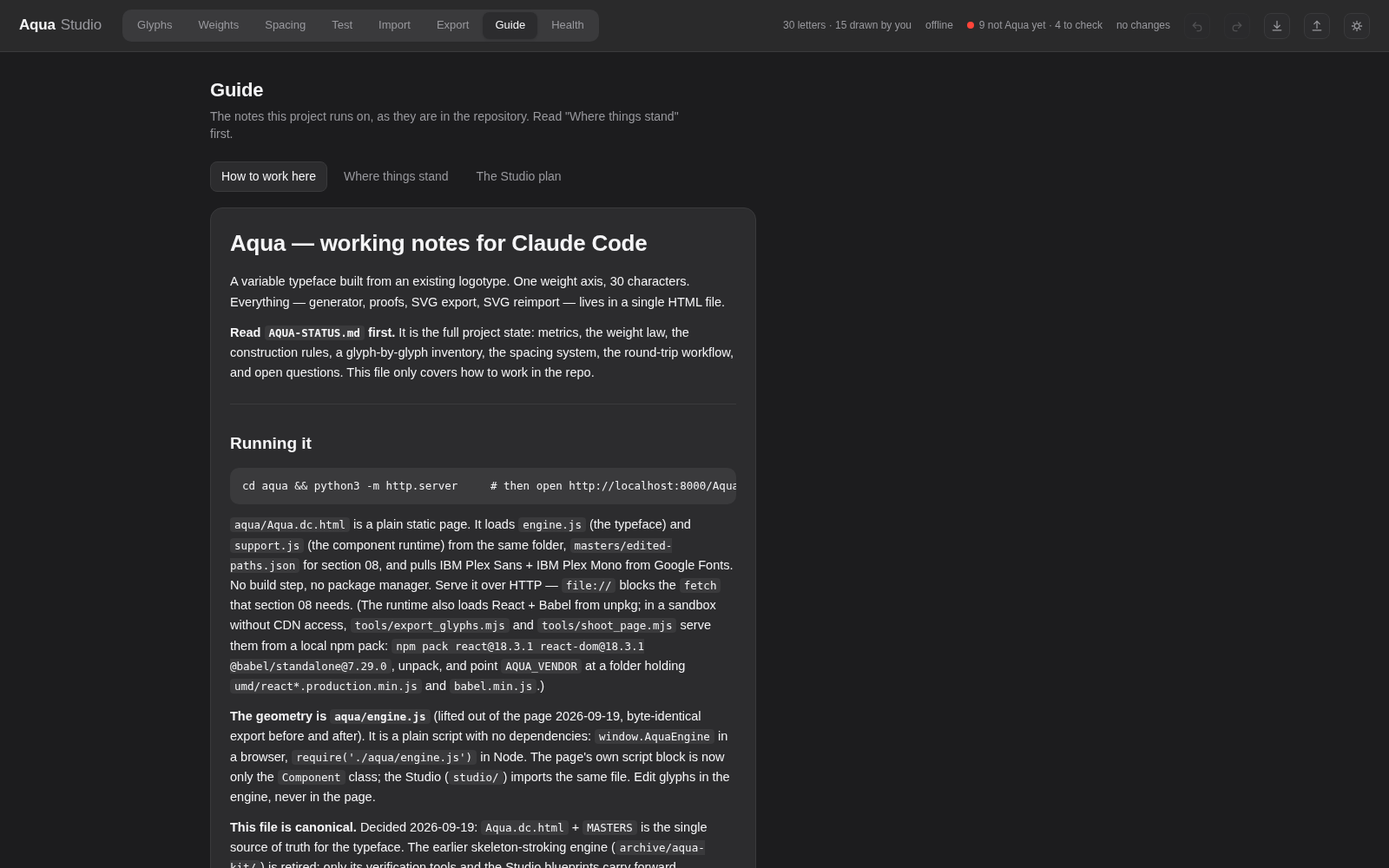
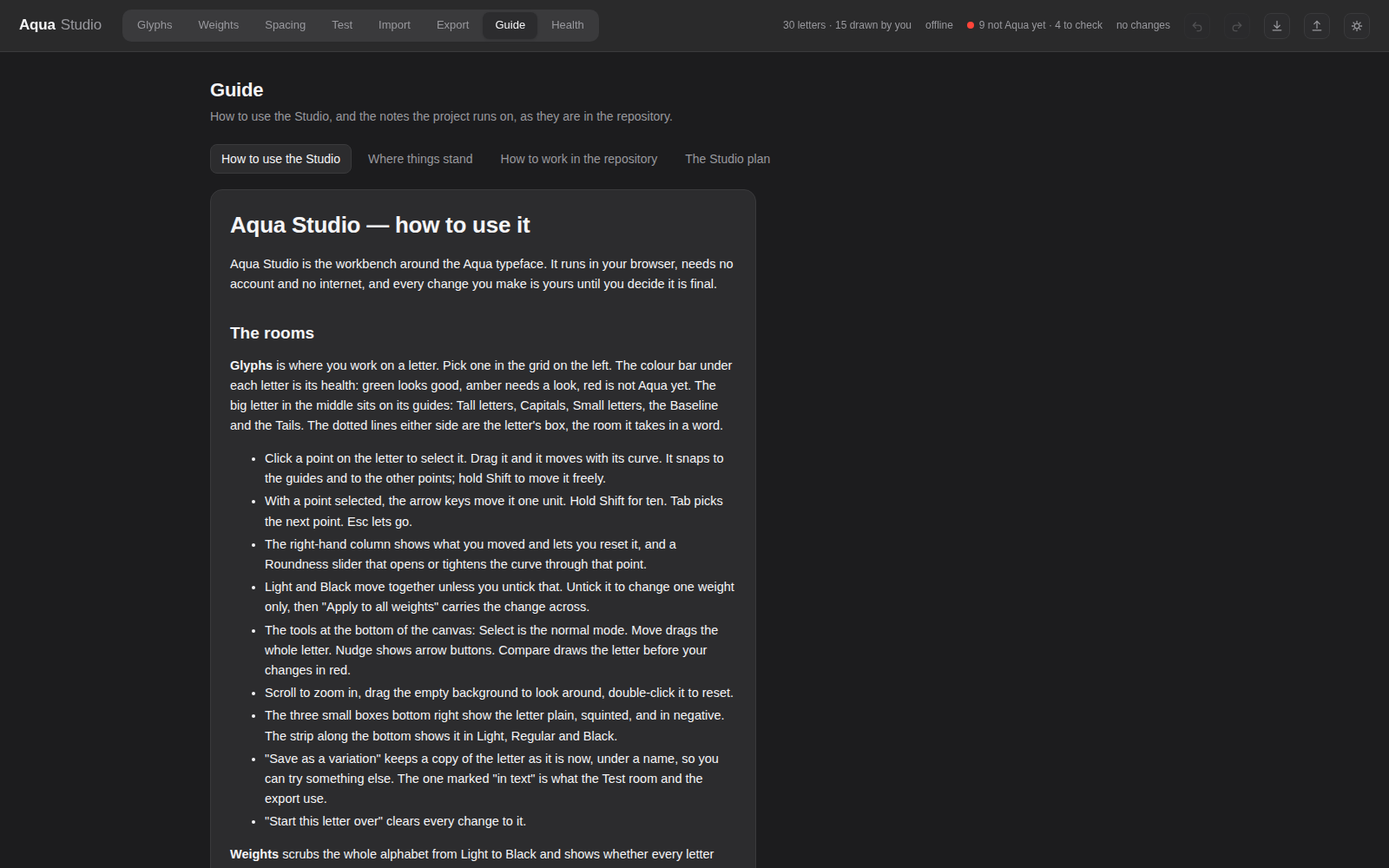
Milestone 4, part one: the six optical audits and the manual
studio/audit.js reads a letter's outline at a weight and says in plain words
what a trained eye would notice, one audit per law from the spec:

- Overshoot: the top and bottom extremes are classed flat (a straight run at
  least 0.4 stem long, line or straight cubic) or round; a round extreme
  sitting exactly on a guide is flagged, so is a flat one overshooting it.
- Weight illusion: stems measured by horizontal scans across the x-height,
  horizontals by vertical scans whose runs keep their height and level
  edges either side (so a curve or a diagonal passing through does not
  count); a horizontal as thick as the stems is flagged, with the value the
  contrast curve wants at that weight.
- Gravity: stacked holes compared by area; an upper hole not smaller than
  the lower is flagged.
- Irradiation: the smallest hole's size at 12 px; under 1.5 px it closes up
  in negative.
- Crowding at joins: ink coverage in a disc of 0.9 stem around every point;
  the dark ones are listed, and drawn as red haloes on the canvas.
- Rhythm: the ink gaps next to n and o against the 70–85 band.

The whole set audits in about a tenth of a second. The Health room gets a
"Six optical checks" table (letter × law, first thing to look at; click a
row to open the letter); the inspector shows the letter's own lines; the
canvas gains the Middle guide at 0.515 of the x-height (of the cap height
for B). studio/GUIDE.md is a plain-language manual for Fabio and is the
first tab of the Guide room.
[…]

Changed region(s): [[0.1562, 0.248, 0.5312, 1.0], [0.1562, 0.093, 0.5, 0.217], [0.5, 0.155, 0.5312, 0.186]]

diff --git a/studio/audit.js b/studio/audit.js
@@ -1,0 +1,162 @@
+// The six optical laws, as audits. Each looks at a letter's outline at a weight and says in
+// plain words what a trained eye would notice — overshoot, the weight illusion, gravity,
+// irradiation, crowding at the joins, rhythm. Findings are advisory: they never change a
+// drawing, they tell Fabio where to look.
+//
+// Loads as a classic <script> (window.AquaAudit) and as CommonJS (require). Needs the engine.
+(function (root, factory) {
+  const E = typeof module === 'object' && module.exports ? require('../aqua/engine.js') : root.AquaEngine;
+  const api = factory(E);
+  if (typeof module === 'object' && module.exports) module.exports = api;
+  root.AquaAudit = api;
+})(typeof globalThis !== 'undefined' ? globalThis : this, function (E) {
+'use strict';
+
+const LAWS = [
+  ['overshoot', 'Overshoot', 'Round and pointed shapes must go past the line to look level with flat ones.'],
+  ['weight', 'Weight illusion', 'A horizontal stroke as thick as a vertical one looks heavier; horizontals are drawn thinner.'],
+  ['gravity', 'Gravity', 'The upper part of a two-storey letter must be smaller than the lower, or it looks top-heavy.'],
+  ['irradiation', 'Irradiation', 'White on black spreads; holes close up at small sizes unless they are big enough.'],
+  ['crowding', 'Crowding at joins', 'Where strokes meet, ink piles up and looks darker; joins are thinned on purpose.'],
+  ['rhythm', 'Rhythm', 'The gaps between letters should feel even; the target band is 70–85 units.']
+];
+const XH = 521, ASC = 751, CAP = 715, OV = 7;
+
+// ── geometry helpers ──
+function polys(subs, n = 10) {
+  return subs.map(sub => {
+    const pts = [];
+    for (const [p0, c1, c2, p3, k] of sub) {
+      const m = k === 'L' ? 1 : n;
+      for (let i = 1; i <= m; i++) { const t = i / m, u = 1 - t;
+        pts.push([u*u*u*p0[0] + 3*u*u*t*c1[0] + 3*u*t*t*c2[0] + t*t*t*p3[0], u*u*u*p0[1] + 3*u*u*t*c1[1] + 3*u*t*t*c2[1] + t*t*t*p3[1]]); }
+    }
+    return pts;
+  });
+}
+function crossings(P, axis, v) {   // axis 0: vertical line x=v → y crossings; axis 1: horizontal line y=v → x crossings
+  const out = [];
+  for (const poly of P) for (let i = 0; i < poly.length; i++) {
+    const a = poly[i], b = poly[(i + 1) % poly.length];
+    const a1 = a[axis], b1 = b[axis];
+    if ((a1 > v) !== (b1 > v)) { const t = (v - a1) / (b1 - a1); out.push(a[1 - axis] + t * (b[1 - axis] - a[1 - axis])); }
+  }
+  return out.sort((x, y) => x - y);
+}
+function runs(P, axis, v) { const c = crossings(P, axis, v), r = []; for (let i = 0; i + 1 < c.length; i += 2) r.push([c[i], c[i + 1]]); return r; }
+function inside(P, x, y) { let c = 0; for (const poly of P) for (let i = 0; i < poly.length; i++) { const a = poly[i], b = poly[(i + 1) % poly.length]; if ((a[1] > y) !== (b[1] > y)) { const xi = a[0] + (y - a[1]) * (b[0] - a[0]) / (b[1] - a[1]); if (x < xi) c++; } } return c % 2 === 1; }
+function coverage(P, cx, cy, r) { let n = 0, k = 0; const step = r / 4; for (let x = -r; x <= r; x += step) for (let y = -r; y <= r; y += step) { if (x*x + y*y > r*r) continue; n++; if (inside(P, cx + x, cy + y)) k++; } return n ? k / n : 0; }
+function bboxOf(poly) { let x0 = Infinity, x1 = -Infinity, y0 = Infinity, y1 = -Infinity; for (const [x, y] of poly) { if (x < x0) x0 = x; if (x > x1) x1 = x; if (y < y0) y0 = y; if (y > y1) y1 = y; } return { x0, x1, y0, y1, w: x1 - x0, h: y1 - y0 }; }
+const median = a => { const b = [...a].sort((x, y) => x - y); return b.length ? b[Math.floor(b.length / 2)] : null; };
+const r0 = v => Math.round(v);
+
+// ── the audits ──
+function overshoot(ch, s, subs, b) {
+  const out = [];
+  const nodes = []; subs.forEach((sub, si) => sub.forEach((seg, j) => nodes.push({ p: seg[0], prev: sub[(j + sub.length - 1) % sub.length], next: seg })));
+  const extreme = (pick, guideList, word) => {
+    const y = pick === 'top' ? b.ymax : b.ymin;
+    const at = nodes.filter(n => Math.abs(n.p[1] - y) < 0.6);
+    if (!at.length) return;
+    // flat = a straight run along the extreme at least 0.4 stem long: a line, or a cubic whose
+    // handles lie on the chord. Short sampled pieces (a polyline round) are round.
+    const flatSeg = seg => { const [p0, c1, c2, p3, k] = seg; if (Math.abs(p0[1] - y) > 0.6 || Math.abs(p3[1] - y) > 0.6) return false;
+      if (Math.abs(p3[0] - p0[0]) < 0.4 * s) return false; return k === 'L' || (Math.abs(c1[1] - y) < 0.6 && Math.abs(c2[1] - y) < 0.6); };
+    const flat = at.some(n => flatSeg(n.next) || flatSeg(n.prev));
+    const guide = guideList.reduce((g, c) => Math.abs(c.y - y) < Math.abs(g.y - y) ? c : g);
+    const d = Math.abs(y - guide.y);
+    if (!flat && d < 1.5) out.push({ ok: false, text: `The round ${word} sits exactly on the ${guide.name} line; a round shape needs to go about ${OV} past it to look level.` });
+    else if (flat && d > 1.5 && d < 14) out.push({ ok: false, text: `The flat ${word} overshoots the ${guide.name} line by ${r0(d)}; flat shapes should sit on it.` });
+    else if (!flat && d >= 1.5 && d < 14) out.push({ ok: true, text: `The round ${word} overshoots the ${guide.name} line by ${r0(d)}.` });
+    else if (flat && d < 1.5) out.push({ ok: true, text: `The flat ${word} sits on the ${guide.name} line.` });
+  };
+  extreme('top', [{ name: 'Small letters', y: XH }, { name: 'Tall letters', y: ASC }, { name: 'Capitals', y: CAP }], 'top');
+  extreme('bottom', [{ name: 'Baseline', y: 0 }, { name: 'Tails', y: -230 }], 'bottom');
+  return out;
+}
+function weight(ch, s, P, b) {
+  const stems = [], thins = [];
+  for (const f of [0.35, 0.5, 0.65]) for (const r of runs(P, 1, XH * f)) { const w = r[1] - r[0]; if (w >= 0.5 * s && w <= 1.6 * s) stems.push(w); }
+  // a horizontal is a run whose height holds steady a little to either side; a curve passing
+  // through the scan line does not count
+  for (const f of [0.3, 0.4, 0.5, 0.6, 0.7]) {
+    const x = b.xmin + (b.xmax - b.xmin) * f, dx = 0.12 * s;
+    for (const r of runs(P, 0, x)) {
+      const h = r[1] - r[0]; if (h < 0.25 * s || h > 1.3 * s) continue;
+      const mid = (r[0] + r[1]) / 2;
+      const near = [x - dx, x + dx].map(xx => runs(P, 0, xx).find(q => q[0] <= mid && q[1] >= mid));
+      // same height AND level edges either side — a diagonal keeps its height but shifts
+      if (near.every(q => q && Math.abs((q[1] - q[0]) - h) < 0.15 * h && Math.abs(q[0] - r[0]) < 0.25 * dx && Math.abs(q[1] - r[1]) < 0.25 * dx)) thins.push(h);
+    }
+  }
+  if (!stems.length || !thins.length) return [];
+  const v = median(stems), h = Math.min(...thins), ratio = h / v, want = 0.72 * E.contrastK(s);
+  if (ratio > 0.92) return [{ ok: false, text: `A horizontal (${r0(h)}) is as thick as the stems (${r0(v)}); at this weight it should be about ${r0(want * v)} or the letter looks heavy across.` }];
+  if (ratio < 0.28) return [{ ok: false, text: `A horizontal (${r0(h)}) is very thin against the stems (${r0(v)}); it may drop out at small sizes.` }];
+  return [{ ok: true, text: `Horizontals ${r0(h)} against stems ${r0(v)} — thinner, as they should be.` }];
+}
+function gravity(ch, s, P) {
+  if (P.length < 3) return [];
+  const boxes = P.map(bboxOf).sort((a, b) => a.w * a.h - b.w * b.h);
+  const inner = boxes.slice(0, -1).sort((a, b) => b.y0 - a.y0);   // all but the largest, top first
+  const out = [];
+  for (let i = 0; i + 1 < inner.length; i++) {
+    const up = inner[i], lo = inner[i + 1];
+    if (up.y0 < lo.y1 - 5) continue;                               // side by side, not stacked
+    const ua = up.w * up.h, la = lo.w * lo.h;
+    if (ua >= la * 0.98) out.push({ ok: false, text: `The upper hole (${r0(up.w)} × ${r0(up.h)}) is not smaller than the lower one (${r0(lo.w)} × ${r0(lo.h)}); the letter will look top-heavy.` });
+    else out.push({ ok: true, text: `Upper hole ${r0(up.w)} × ${r0(up.h)} over lower ${r0(lo.w)} × ${r0(lo.h)} — the weight sits low, as it should.` });
+  }
+  return out;
+}
+function irradiation(ch, s, P) {
+  if (P.length < 2) return [];
+  const boxes = P.map(bboxOf).sort((a, b) => a.w * a.h - b.w * b.h).slice(0, -1);
+  const px = 12, out = [];
+  for (const bx of boxes) {
+    const m = Math.min(bx.w, bx.h), at = m * px / 1000;
+    if (at < 1.5) out.push({ ok: false, text: `A hole in the letter is only ${r0(m)} units across — ${at.toFixed(1)} px at 12 px; in white on black it closes up.` });
+    else out.push({ ok: true, text: `Smallest hole ${r0(m)} units (${at.toFixed(1)} px at 12 px) — stays open in negative.` });
+  }
+  return out.slice(0, 1).concat(out.filter(o => !o.ok).slice(out[0] && !out[0].ok ? 1 : 0));
+}
+function crowding(ch, s, subs, P) {
+  const dark = [];
+  const r = 0.9 * s; let i = 0;
+  for (const sub of subs) for (const seg of sub) { const c = coverage(P, seg[0][0], seg[0][1], r); if (c > 0.78) dark.push({ i, p: seg[0], c }); i++; }
+  if (!dark.length) return [{ ok: true, text: 'No join looks darker than the rest.' }];
+  return [{ ok: false, text: `${dark.length} place${dark.length > 1 ? 's' : ''} where strokes meet look darker than the strokes themselves — squint to see it. The g's neck is the model for thinning a join.`, nodes: dark.map(d => d.i) }];
+}
+function rhythm(ch, s) {
+  const gaps = [];
+  for (const [a, b] of [['n', ch], [ch, 'n'], ['o', ch], [ch, 'o']]) {
+    if (a === b) continue;
+    const L = E.layout(a + b, s); if (L.glyphs.length < 2) continue;
+    const [g1, g2] = L.glyphs, b1 = E.bbox(g1.d), b2 = E.bbox(g2.d);
+    const t1 = +g1.tf.match(/-?[\d.]+/)[0], t2 = +g2.tf.match(/-?[\d.]+/)[0];
+    gaps.push({ pair: a + b, gap: r0((t2 + b2.xmin) - (t1 + b1.xmax)) });
+  }
+  const outside = gaps.filter(g => g.gap < 70 || g.gap > 85);
+  if (!outside.length) return [{ ok: true, text: `Next to n and o the gaps are ${gaps.map(g => g.gap).join(', ')} — inside the 70–85 band.` }];
+  return [{ ok: false, text: `Next to n and o some gaps fall outside the 70–85 band: ${outside.map(g => `${g.pair} ${g.gap}`).join(', ')}.` }];
+}
+
+// Every law for one letter at one weight. Findings: { law, ok, text, nodes? }.
+function audit(ch, s) {
+  const g = E.glyph(ch, s); if (!g) return null;
+  const subs = E.parsePath(g.d), P = polys(subs), b = E.bbox(g.d);
+  const out = [];
+  const add = (law, list) => list.forEach(f => out.push({ law, ...f }));
+  add('overshoot', overshoot(ch, s, subs, b));
+  add('weight', weight(ch, s, P, b));
+  add('gravity', gravity(ch, s, P));
+  add('irradiation', irradiation(ch, s, P));
+  add('crowding', crowding(ch, s, subs, P));
+  add('rhythm', rhythm(ch, s));
+  return { ch, stem: s, findings: out, problems: out.filter(f => !f.ok).length };
+}
+function auditAll(s, chars) {
+  const out = {}; for (const ch of chars || E.ORDER) out[ch] = audit(ch, s); return out;
+}
+return { LAWS, audit, auditAll, coverage, polys };
+});

diff --git a/studio/studio.js b/studio/studio.js
@@ -3,7 +3,7 @@
 // window.AquaEngine draws, window.AquaHealth judges, this file only shows.
 (() => {
 'use strict';
-const E = window.AquaEngine, H = window.AquaHealth, D = window.AquaDoc;
+const E = window.AquaEngine, H = window.AquaHealth, D = window.AquaDoc, AU = window.AquaAudit;
 const $ = (sel, el = document) => el.querySelector(sel);
 const esc = s => String(s).replace(/[&<>"]/g, c => ({ '&': '&amp;', '<': '&lt;', '>': '&gt;', '"': '&quot;' }[c]));
 const r1 = v => Math.round(v * 10) / 10, r0 = v => Math.round(v);
@@ -29,7 +29,7 @@ const S = {
   theme: q.get('theme') || store('theme', 'auto'),
   text: q.get('text') || store('text', 'aqua bonefish'),
   view: q.get('view') || 'final',            // Test room: final | negative | squint | flip | mirror | heat
-  guide: q.get('guide') || 'CLAUDE.md',
+  guide: q.get('guide') || 'GUIDE.md',
   search: '',
   hand: null, health: null, diffs: null, docs: {}, edited: null, build: null, realFont: q.get('real') === '1'
 };
@@ -406,13 +406,13 @@ function Export(root) {
 }
 
 // Guide — the project's own notes, rendered in the app.
-const DOCS = [['CLAUDE.md', 'How to work here', '../CLAUDE.md'], ['AQUA-STATUS.md', 'Where things stand', '../AQUA-STATUS.md'], ['SPEC.md', 'The Studio plan', '../studio/SPEC.md']];
+const DOCS = [['GUIDE.md', 'How to use the Studio', 'GUIDE.md'], ['AQUA-STATUS.md', 'Where things stand', '../AQUA-STATUS.md'], ['CLAUDE.md', 'How to work in the repository', '../CLAUDE.md'], ['SPEC.md', 'The Studio plan', '../studio/SPEC.md']];
 function Guide(root) {
   root.classList.add('one');
   const cur = DOCS.find(d => d[0] === S.guide) || DOCS[0];
   root.innerHTML = `<div class="main">
     <h1 class="title">Guide</h1>
-    <p class="lead">The notes this project runs on, as they are in the repository. Read "Where things stand" first.</p>
+    <p class="lead">How to use the Studio, and the notes the project runs on, as they are in the repository.</p>
     <div class="tabs" id="tabs">${DOCS.map(d => `<b class="${d[0] === cur[0] ? 'on' : ''}" data-doc="${d[0]}">${d[1]}</b>`).join('')}</div>
     <div class="panel md" id="doc">${S.docs[cur[0]] ? md(S.docs[cur[0]]) : '<p class="sub">Loading…</p>'}</div>
   </div>`;
@@ -461,10 +461,19 @@ function Health(root) {
     <div class="panel" style="margin-top:18px"><h6>What needs work</h6>
       ${broken.length ? `<table><thead><tr><th></th><th>Letter</th><th class="num">Score</th><th>Findings</th></tr></thead><tbody>${broken.map(r => `<tr><td><span class="g">${glyphSVG(r.ch, 106, { box: 'metrics' })}</span></td><td><b>${shown(r.ch)}</b><br><span class="sub small">${KIND[E.kindOf(r.ch)]}</span></td><td class="num" style="color:var(--${r.colour === 'red' ? 'bad' : 'warn'})">${r.score}</td><td>${r.flags.map(f => esc(f.text)).join('<br>')}</td></tr>`).join('')}</tbody></table>` : '<p class="small sub" style="margin:0">Nothing. Every letter is green.</p>'}
     </div>
+    <div class="panel" style="margin-top:18px"><h6>Six optical checks · at thickness ${S.stem}</h6>
+      <p class="small sub" style="margin:0 0 12px">What a trained eye would notice, letter by letter. They never change a drawing; they say where to look. Click a letter to open it.</p>
+      ${(() => { const all = AU.auditAll(S.stem); const laws = AU.LAWS;
+        const perLaw = laws.map(([k, n, d]) => ({ k, n, d, bad: E.ORDER.split('').filter(c => all[c].findings.some(f => f.law === k && !f.ok)) }));
+        return `<div class="chips" style="margin-bottom:14px">${perLaw.map(l => `<span class="chip ${l.bad.length ? 'amber' : 'green'}" title="${esc(l.d)}">${l.n} · ${l.bad.length ? l.bad.length + ' to look at' : 'all clear'}</span>`).join('')}</div>
+        <table><thead><tr><th>Letter</th>${laws.map(l => `<th title="${esc(l[2])}">${l[1]}</th>`).join('')}<th>First thing to look at</th></tr></thead><tbody>
+        ${E.ORDER.split('').map(c => { const r = all[c]; const first = r.findings.find(f => !f.ok);
+          return `<tr data-ch="${esc(c)}" style="cursor:pointer"><td><b>${shown(c)}</b></td>${laws.map(l => { const fs = r.findings.filter(f => f.law === l[0]); const bad = fs.some(f => !f.ok); return `<td title="${esc(fs.map(f => f.text).join(' '))}" style="color:var(--${!fs.length ? 'faint' : bad ? 'warn' : 'ok'})">${!fs.length ? '·' : bad ? '!' : '✓'}</td>`; }).join('')}<td class="small">${first ? esc(first.text) : '<span class="sub">nothing</span>'}</td></tr>`; }).join('')}</tbody></table>`; })()}
+    </div>
     ${S.build ? `<div class="panel tight" style="margin-top:18px"><h6>Last font build</h6><p class="small" style="margin:0">${esc(S.build.family)} ${esc(S.build.version)}${S.build.draft ? ' (draft)' : ''} · ${esc(S.build.date)} · gate ${S.build.gate.open ? 'open' : 'closed'} · every letter blends: ${S.build.interpolatable ? 'yes' : 'no'}.</p></div>` : ''}
     <p class="small sub">Scores are computed live from the outlines at thicknesses 53, 78 and 106; the worst weight governs. Your verdicts come from tools/hand.json.</p>
   </div>`;
-  root.querySelectorAll('.tile').forEach(t => t.onclick = () => setGlyph(t.dataset.ch));
+  root.querySelectorAll('.tile, tr[data-ch]').forEach(t => t.onclick = () => setGlyph(t.dataset.ch));
 }
 
 // ── boot ──────────────────────────────────────────────────────────────────────

diff --git a/studio/editor.js b/studio/editor.js
@@ -4,9 +4,11 @@
 // the document (AquaDoc), and shows in the text everywhere else in the Studio.
 (() => {
 'use strict';
-const E = window.AquaEngine, D = window.AquaDoc;
+const E = window.AquaEngine, D = window.AquaDoc, AU = window.AquaAudit;
 const A = () => window.AquaStudio;
-const GUIDES = [['Tall letters', 751], ['Capitals', 715], ['Small letters', 521], ['Baseline', 0], ['Tails', -230]];
+const GUIDES = [['Tall letters', 751], ['Capitals', 715], ['Small letters', 521], ['Middle', 268], ['Baseline', 0], ['Tails', -230]];
+// the visual middle sits a little above the true middle (0.515); for the capital it is on the cap height
+const guidesFor = ch => GUIDES.map(([n, y]) => n === 'Middle' ? [n, Math.round(0.515 * (ch === 'B' ? 715 : 521))] : [n, y]);
 const SNAP_Y = [751, 715, 528, 521, 7, 0, -7, -230];
 const ed = { tool: 'select', sel: null, linked: true, compare: false, variant: 0, zoom: 1, pan: [0, 0], glyph: null, view: null };
 const r1 = v => Math.round(v * 10) / 10, r0 = v => Math.round(v);
@@ -54,7 +56,7 @@ function room(root) {
     </aside>
     <div class="canvas" id="canvas">${canvasSVG(ch, s, d, nodes, g)}
       <div class="crumb"><b>${shown(ch)}</b>${ed.variant ? ' · ' + esc(vars[ed.variant].name) : ''} &nbsp;·&nbsp; ${E.weightName(s)} &nbsp;·&nbsp; ${nodes.length} points &nbsp;·&nbsp; ${KIND[g.kind].toLowerCase()}${D.hasMaster(ch) ? ' · drawing brought in' : ''}</div>
-      ${GUIDES.map(([n, y]) => `<div class="pill" data-y="${y}">${n}</div>`).join('')}
+      ${guidesFor(ch).map(([n, y]) => `<div class="pill ${n === 'Middle' ? 'faint' : ''}" data-y="${y}">${n}</div>`).join('')}
       <div class="hint" id="hint"></div>
       <div class="tools" id="tools">
         ${tool('select', 'Select', false, 'Drag a point; drag the background to look around; scroll to zoom')}
@@ -117,13 +119,14 @@ function canvasSVG(ch, s, d, nodes, g) {
     <defs><pattern id="dots" width="40" height="40" patternUnits="userSpaceOnUse"><circle cx="0" cy="0" r="${r1(1.1 / v.k)}" fill="var(--dots)"/></pattern></defs>
     <g transform="scale(1,-1)" id="flip">
       <rect x="${r1(v.x - far)}" y="${r1(v.y - far)}" width="${r1(v.w + 2 * far)}" height="${r1(v.h + 2 * far)}" fill="url(#dots)"/>
-      ${GUIDES.map(([n, y]) => `<line class="guide ${y === 0 ? 'base' : ''}" x1="${r1(v.x - far)}" x2="${r1(v.x + v.w + far)}" y1="${y}" y2="${y}" style="stroke-width:${r1((y === 0 ? 1.5 : 1) / v.k)}"/>`).join('')}
+      ${guidesFor(ch).map(([n, y]) => `<line class="guide ${y === 0 ? 'base' : ''} ${n === 'Middle' ? 'mid' : ''}" x1="${r1(v.x - far)}" x2="${r1(v.x + v.w + far)}" y1="${y}" y2="${y}" style="stroke-width:${r1((y === 0 ? 1.5 : 1) / v.k)}"/>`).join('')}
       <line class="boxline" x1="${r1(-g.lsb)}" x2="${r1(-g.lsb)}" y1="-260" y2="790" style="stroke-width:${r1(1 / v.k)}"/>
       <line class="boxline" x1="${r1(g.w + g.rsb)}" x2="${r1(g.w + g.rsb)}" y1="-260" y2="790" style="stroke-width:${r1(1 / v.k)}"/>
       ${before ? `<path class="before" d="${before}" fill-rule="evenodd" style="stroke-width:${r1(1.4 / v.k)}"/>` : ''}
       <path class="skin" id="skin" d="${d}" fill-rule="evenodd" style="stroke-width:${r1(1.1 / v.k)}"/>
       <g id="snaps"></g>
       <circle id="halo" r="${r1(big)}" class="halo" style="display:${ed.sel == null ? 'none' : ''}" cx="${ed.sel == null ? 0 : r1(nodes[ed.sel].p[0])}" cy="${ed.sel == null ? 0 : r1(nodes[ed.sel].p[1])}"/>
+      <g id="dark">${(() => { try { const f = AU.audit(ch, s).findings.find(x => x.law === 'crowding' && !x.ok); return f && f.nodes ? f.nodes.map(i => nodes[i] ? `<circle class="darkhalo" cx="${r1(nodes[i].p[0])}" cy="${r1(nodes[i].p[1])}" r="${r1(0.9 * s)}"/>` : '').join('') : ''; } catch { return ''; } })()}</g>
       <g id="nodes">${nodes.map((n, i) => `<circle class="node ${n.first ? 'start' : ''} ${i === ed.sel ? 'sel' : ''}" data-i="${i}" cx="${r1(n.p[0])}" cy="${r1(n.p[1])}" r="${r1(i === ed.sel ? R * 1.2 : R)}" style="stroke-width:${r1(SW)}"/>`).join('')}</g>
     </g>
   </svg>`;
@@ -287,7 +290,8 @@ function renderInspector() {
     <div class="btn" data-act="savevar">Save as a variation</div>
     <div class="btn ${edited ? '' : 'off'}" data-act="reset">Start this letter over</div>
     ${D.hasMaster(ch) ? `<div class="btn" data-act="forget" title="Go back to the drawing the Studio had before you brought this one in">Forget the imported drawing</div>` : ''}
-    ${healthLines(S.health[ch])}`;
+    ${healthLines(S.health[ch])}
+    ${(() => { const r = AU.audit(ch, s); if (!r) return ''; return `<h6 style="margin-top:14px">Optical · at thickness ${s}</h6><div class="health">${r.findings.map(f => `<b class="${f.ok ? '' : 'w'}">${f.ok ? '✓' : '!'}</b>${esc(f.text)}<br>`).join('')}</div>`; })()}`;
   bindWeightPicker(insp);
   insp.querySelector('#linked').onchange = e => { ed.linked = e.target.checked; if (!ed.linked && s !== 53 && s !== 106) A().setStem(s < 80 ? 53 : 106); else renderInspector(); };
   const round = insp.querySelector('#round');

diff --git a/studio/studio.css b/studio/studio.css
@@ -230,3 +230,8 @@ td.bad { color: var(--bad); }
 .dotc { display: inline-block; width: 6px; height: 6px; border-radius: 50%; background: var(--blue); vertical-align: 2px; }
 @font-face { font-family: AquaVF; src: url(fonts/Aqua-VF.woff2) format('woff2'); font-weight: 300 900; font-display: block; }
 .realfont { font-family: AquaVF, sans-serif; line-height: 1.05; white-space: nowrap; overflow: hidden; }
+
+/* ── audits ── */
+.canvas .guide.mid { stroke-dasharray: 6 8; }
+.pill.faint { opacity: .7; }
+.canvas .darkhalo { fill: var(--bad); fill-opacity: .16; stroke: var(--bad); stroke-opacity: .5; stroke-width: 1; pointer-events: none; }

diff --git a/studio/index.html b/studio/index.html
@@ -8,6 +8,7 @@
 <script src="../aqua/engine.js"></script>
 <script src="health.js"></script>
 <script src="doc.js"></script>
+<script src="audit.js"></script>
 <script src="editor.js"></script>
 </head>
 <body>

diff --git a/studio/GUIDE.md b/studio/GUIDE.md
@@ -1,0 +1,84 @@
+# Aqua Studio — how to use it
+
+Aqua Studio is the workbench around the Aqua typeface. It runs in your browser, needs no
+account and no internet, and every change you make is yours until you decide it is final.
+
+## The rooms
+
+**Glyphs** is where you work on a letter. Pick one in the grid on the left. The colour bar
+under each letter is its health: green looks good, amber needs a look, red is not Aqua yet.
+The big letter in the middle sits on its guides: Tall letters, Capitals, Small letters, the
+Baseline and the Tails. The dotted lines either side are the letter's box, the room it takes
+in a word.
+
+- Click a point on the letter to select it. Drag it and it moves with its curve. It snaps to
+  the guides and to the other points; hold Shift to move it freely.
+- With a point selected, the arrow keys move it one unit. Hold Shift for ten. Tab picks the
+  next point. Esc lets go.
+- The right-hand column shows what you moved and lets you reset it, and a Roundness slider
+  that opens or tightens the curve through that point.
+- Light and Black move together unless you untick that. Untick it to change one weight only,
+  then "Apply to all weights" carries the change across.
+- The tools at the bottom of the canvas: Select is the normal mode. Move drags the whole
+  letter. Nudge shows arrow buttons. Compare draws the letter before your changes in red.
+- Scroll to zoom in, drag the empty background to look around, double-click it to reset.
+- The three small boxes bottom right show the letter plain, squinted, and in negative. The
+  strip along the bottom shows it in Light, Regular and Black.
+- "Save as a variation" keeps a copy of the letter as it is now, under a name, so you can try
+  something else. The one marked "in text" is what the Test room and the export use.
+- "Start this letter over" clears every change to it.
+
+**Weights** scrubs the whole alphabet from Light to Black and shows whether every letter
+blends cleanly between the two drawn weights.
+
+**Spacing** is the room each letter keeps on its left and right and the pairs that pull
+closer. It is on hold until the letters are reshaped, but it is live to try: "Room from ink"
+takes each letter's box from where its ink actually is; the edges and the pairs can be
+changed in the tables.
+
+**Test** lets you type anything and see it at five sizes, in negative, squinted, upside down,
+mirrored, or as a darkness map that shows where the ink piles up. "Show the built font"
+switches to the real font file from the last build.
+
+**Import** takes a sheet back from Illustrator. Drop the file on the page: the Studio lists
+every letter, shows which ones you changed and by how much, and refuses a drawing where
+points were added or removed. Tick the ones to bring in.
+
+**Export** downloads a sheet for Illustrator at Black, Light or the current weight, with all
+your changes in it, and the last built font.
+
+**Health** is the report card for the whole set: the score of every letter, the six optical
+checks, and whether the gate to a font build is open.
+
+**Guide** is this page and the project's own notes.
+
+## Keeping your work
+
+Everything autosaves in the browser as you go. The download arrow in the top bar (or Cmd+S)
+saves a file called `aqua-studio-edits.json`; the upload arrow opens one. Send that file over
+when you want changes made permanent in the typeface. Undo is Cmd+Z, redo is Shift+Cmd+Z.
+
+## The round trip with Illustrator
+
+1. In Export, download the Black sheet and the Light sheet.
+2. Open a sheet in Illustrator. Move points. Never add or delete a point, and keep each
+   letter in its own cell. Ignore the guides layer.
+3. Save as plain SVG.
+4. Drop the file on the Import room and tick the letters to bring in.
+
+Bring in both weights if you want a change to hold across the whole range. Bring in one and
+the other weight stays as it is.
+
+## The six optical checks
+
+The Health room and the inspector run six checks that a trained eye would make:
+
+1. **Overshoot** — round and pointed shapes must go past the line to look level with flat ones.
+2. **Weight illusion** — a horizontal as thick as a vertical looks heavier, so horizontals
+   are drawn thinner.
+3. **Gravity** — the upper part of a two-storey letter must be smaller than the lower.
+4. **Irradiation** — white on black spreads; holes must stay open at small sizes.
+5. **Crowding at joins** — where strokes meet, ink piles up; joins are thinned on purpose.
+6. **Rhythm** — the gaps between letters should feel even, in the 70–85 band.
+
+They never change a drawing. They say where to look.
